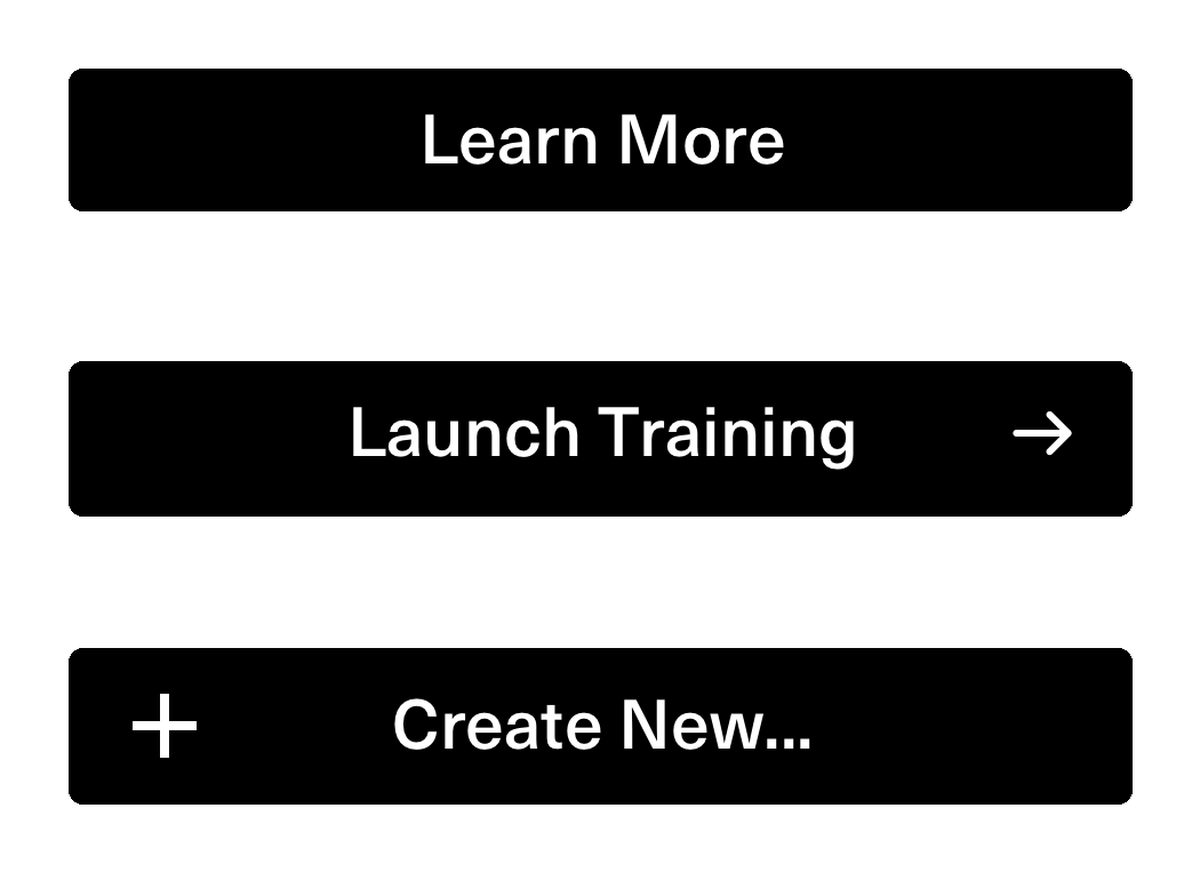
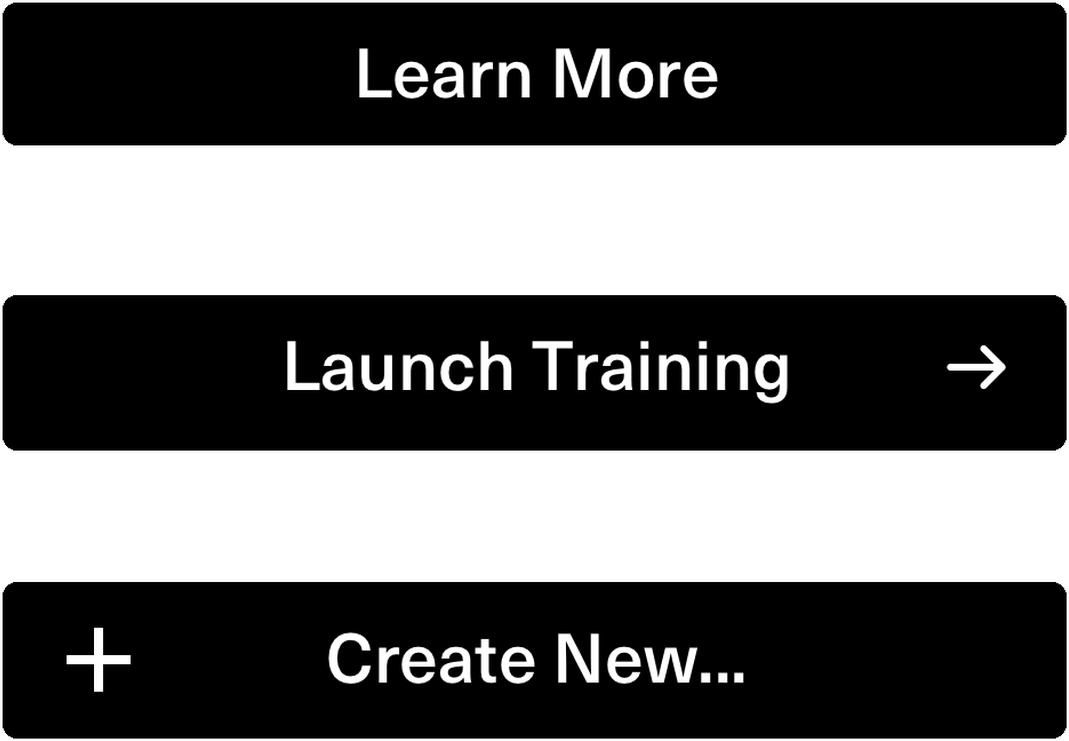
AbbVie: inset the UI component cards evenly; dashboard export replaces the landing page in the recruitment frame

diff --git a/case-studies/abbvie/index.html b/case-studies/abbvie/index.html
@@ -52,8 +52,8 @@
     .phones .media-fill img { object-position: top; }
     @media (max-width: 767px) { .phones { grid-template-columns: repeat(3, minmax(0, 1fr)); gap: 1rem; } .phones .media-fill { border-radius: 1.4rem; border-width: 0.35rem; } }
     /* UI components sit on a near-black tile, as they were designed */
-    .components .media-fill { aspect-ratio: 4 / 3; background: #fff; padding: 10%; box-sizing: border-box; }
-    .components .media-fill img { object-fit: contain; }
+    .components .media-fill { aspect-ratio: 4 / 3; background: #fff; }
+    .components .media-fill img { inset: 12%; width: 76%; height: 76%; object-fit: contain; }   /* the image is absolutely positioned, so pad via inset */
     /* Subject touchpoints: portrait documents on the light grey */
     .documents .media-fill { aspect-ratio: 4 / 5; background: #faf6f5; }
     .documents .media-fill img { object-fit: contain; }
@@ -592,10 +592,10 @@
         <div class="site-max">
           <figure class="media-fill radius-media browser-frame" data-scrollscale>
             <div class="browser-frame__bar" aria-hidden="true"><i></i><i></i><i></i></div>
-            <div class="browser-frame__view" style="aspect-ratio:1375/846">
-              <img src="../../assets/abbvie/landing-site.jpg" alt="Aptios web landing page: A smarter way to conduct clinical studies, web login, support and app download" loading="lazy" width="1375" height="846">
+            <div class="browser-frame__view" style="aspect-ratio:1800/1589">
+              <img src="../../assets/abbvie/dashboard-playground.jpg" alt="Aptios admin console dashboard: overdue and current tasks beside current studies with enrolment progress" loading="lazy" width="1800" height="1589">
             </div>
-            <figcaption>Aptios web entry point for study teams, sites and subjects</figcaption>
+            <figcaption>Admin console dashboard: tasks and studies for a clinical research coordinator</figcaption>
           </figure>
         </div>
       </article>
